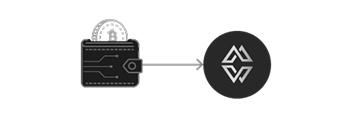
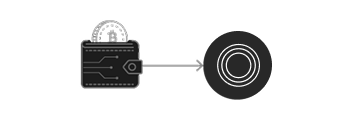
fix: assets udpated

diff --git a/packages/ui/src/assets/images/common/index.ts b/packages/ui/src/assets/images/common/index.ts
@@ -13,7 +13,7 @@ import bitcoinIcon from './bitcoin-icon.svg';
 import blockIcon from './Block-unselectedsvg.svg';
 import blockSelectedIcon from './Block.svg';
 import bnbChainIcon from './bnb-chain.svg';
-import cardTapAsideImage from './CardTapAsideImage.png';
+import cardTapAside from './CardTapAsideImage.png';
 import checkIcon from './check.svg';
 import circledCheckIcon from './circled-check-icon.svg';
 import clearDeviceData from './clear-device-data.png';
@@ -51,7 +51,7 @@ import importWalletIcon from './import-wallet.png';
 import informationWhiteIcon from './information-icon.svg';
 import informationOrangeIcon from './information-orange-icon.svg';
 import informationIcon from './information.svg';
-import joystickTrainingAsideImage from './JoystickTrainingAside.png';
+import joystickTrainingAside from './JoystickTrainingAside.png';
 import goldLoaderIcon from './loader-gold.svg';
 import loaderGrayIcon from './loader-grey.svg';
 import loaderIcon from './loader.png';
@@ -88,7 +88,7 @@ import solanaIcon from './solana.svg';
 import spinnerGoldIcon from './spinner-gold.svg';
 import successIcon from './success.svg';
 import syncIcon from './sync-icon.svg';
-import odixDeviceAuthAsideImage from './odix-DeviceAuthAside.png';
+import odixDeviceAuthAsideImage from './odix-device-auth-aside.png';
 import tetherIcon from './tether.svg';
 import triangleInverseIcon from './triangle-inverse-icon.svg';
 import triangleGreyIcon from './triangleGrey.svg';
@@ -106,51 +106,53 @@ import WalletHoverSilverBgIcon from './wallet-silver-hover-bg.svg';
 import walletIcon from './wallet.svg';
 import warningIcon from './warning.svg';
 import cantonIcon from './canton.png';
+import odixJoystickTrainingAside from './odix-joystick-training-aside.png';
+import odixCardTapAside from './odix-card-tap-aside.png';
 
 const cysyncLogoSmall =
-  (window as any).cysyncEnv.VENDOR === 'odix' // Vendor specific image example
+  (window as any).cysyncEnv.VENDOR === 'odix'
     ? odixLogoSmall
     : cysyncLogoSmallImage;
 
 const LogoOutlinedAside =
-  (window as any).cysyncEnv.VENDOR === 'odix' // Vendor specific image example
+  (window as any).cysyncEnv.VENDOR === 'odix'
     ? OdixLogoOutlinedAsideImage
     : LogoOutlinedAsideImage;
 
 const DeviceAuthAside =
-  (window as any).cysyncEnv.VENDOR === 'odix' // Vendor specific image example
+  (window as any).cysyncEnv.VENDOR === 'odix'
     ? odixDeviceAuthAsideImage
     : deviceAuthAsideImage;
 
 const greenTickImage =
-  (window as any).cysyncEnv.VENDOR === 'odix' // Vendor specific image example
-    ? odixRedTick
-    : greenTick;
+  (window as any).cysyncEnv.VENDOR === 'odix' ? odixRedTick : greenTick;
 
 const cysynclogobigImage =
-  (window as any).cysyncEnv.VENDOR === 'odix' // Vendor specific image example
-    ? odixLogoBig
-    : cysyncLogoBig;
+  (window as any).cysyncEnv.VENDOR === 'odix' ? odixLogoBig : cysyncLogoBig;
 
 const backIconImage =
-  (window as any).cysyncEnv.VENDOR === 'odix' // Vendor specific image example
-    ? odixbackIcon
-    : backIcon;
+  (window as any).cysyncEnv.VENDOR === 'odix' ? odixbackIcon : backIcon;
 
 const usbIconImage =
-  (window as any).cysyncEnv.VENDOR === 'odix' // Vendor specific image example
-    ? odixUsbIcon
-    : usbIcon;
+  (window as any).cysyncEnv.VENDOR === 'odix' ? odixUsbIcon : usbIcon;
 
 const createWalletGraphicsImage =
-  (window as any).cysyncEnv.VENDOR === 'odix' // Vendor specific image example
+  (window as any).cysyncEnv.VENDOR === 'odix'
     ? odixCreateWalletGraphics
     : createWalletGraphics;
 
 const recoverWalletFromSeedphraseGraphicsImage =
-  (window as any).cysyncEnv.VENDOR === 'odix' // Vendor specific image example
+  (window as any).cysyncEnv.VENDOR === 'odix'
     ? odixrecoverWalletFromSeedphraseGraphics
     : recoverWalletFromSeedphraseGraphics;
+
+const joystickTrainingAsideImage =
+  (window as any).cysyncEnv.VENDOR === 'odix'
+    ? odixJoystickTrainingAside
+    : joystickTrainingAside;
+
+const cardTapAsideImage =
+  (window as any).cysyncEnv.VENDOR === 'odix' ? odixCardTapAside : cardTapAside;
 
 export {
   WalletDefaultExpiredIcon,

diff --git a/packages/cysync-core/src/components/SideBar.tsx b/packages/cysync-core/src/components/SideBar.tsx
@@ -238,17 +238,20 @@ const SideBarComponent: FC = () => {
             )}
           </Flex>
         </Flex>
-        <Flex align="center" justify="flex-start" gap={8} pt="16px" mt="16px">
-          <Image src={cysyncLogoSmallImage} alt="Cypherock" $height={20} />
-          <Typography
-            variant="h6"
-            color="muted"
-            $fontSize={14}
-            $fontWeight="medium"
-          >
-            {strings.securedBy}
-          </Typography>
-        </Flex>
+
+        {window.cysyncEnv.VENDOR !== 'default' && (
+          <Flex align="center" justify="flex-start" gap={8} pt="16px" mt="16px">
+            <Image src={cysyncLogoSmallImage} alt="Cypherock" $height={20} />
+            <Typography
+              variant="h6"
+              color="muted"
+              $fontSize={14}
+              $fontWeight="medium"
+            >
+              {strings.securedBy}
+            </Typography>
+          </Flex>
+        )}
       </SideBarWrapper>
       {window.cysyncEnv.VENDOR === 'default' && (
         <SidebarHandle onMouseDown={startDrag} />

diff --git a/packages/cysync-core/src/pages/MainApp/Settings/index.tsx b/packages/cysync-core/src/pages/MainApp/Settings/index.tsx
@@ -46,7 +46,9 @@ export const Settings: FC = () => {
         m={{ def: 2, lg: '20' }}
         $borderRadius={24}
         shadow={window.cysyncEnv.VENDOR === 'default' ? 'popup' : undefined}
-        $bgColor="container"
+        $bgColor={
+          window.cysyncEnv.VENDOR === 'default' ? undefined : 'container'
+        }
         direction="column"
         align="stretch"
         $borderWidth={0}
